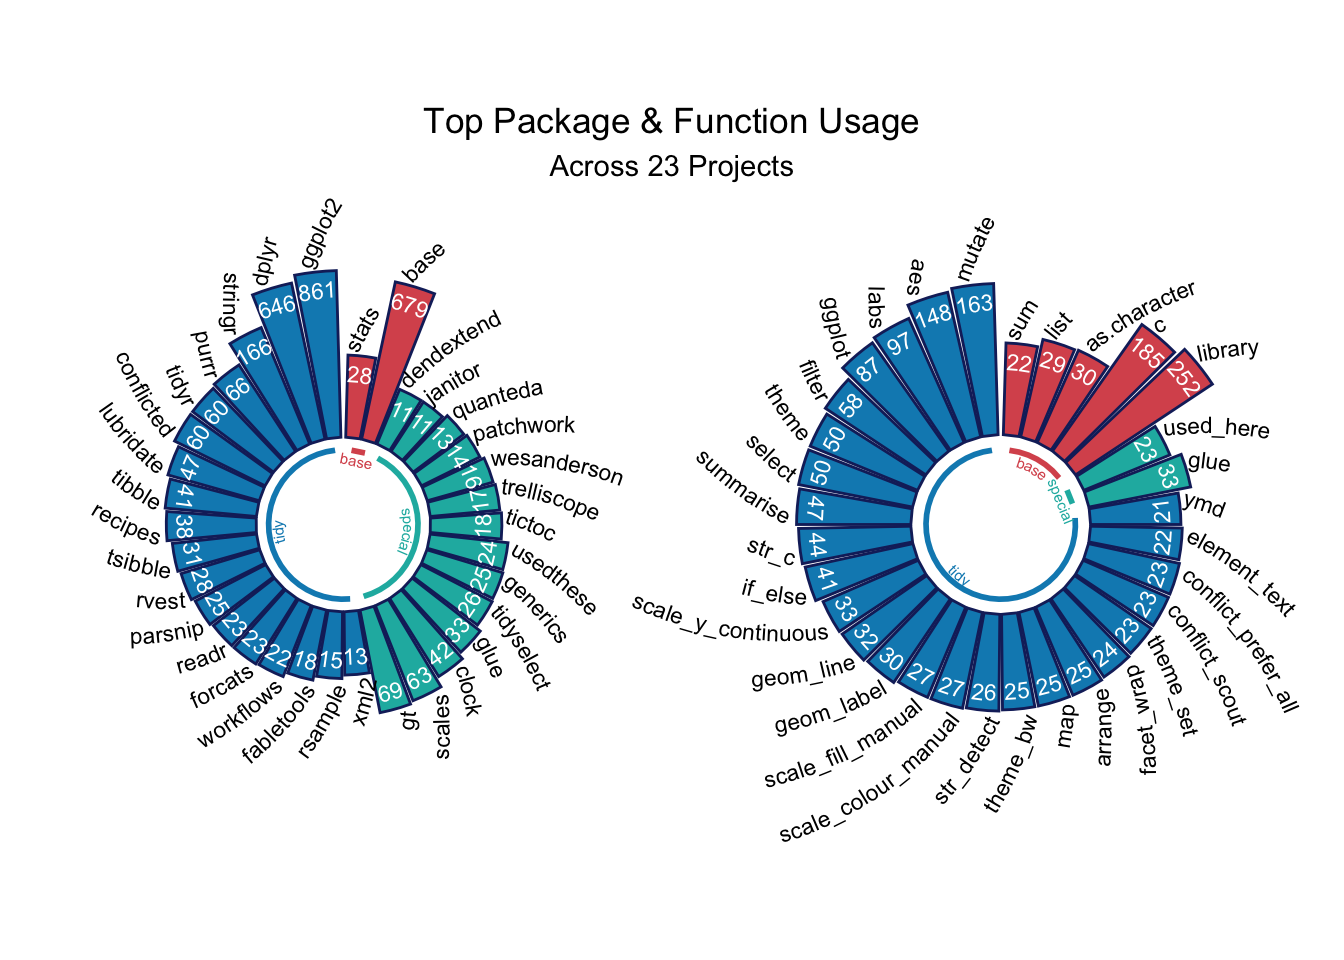
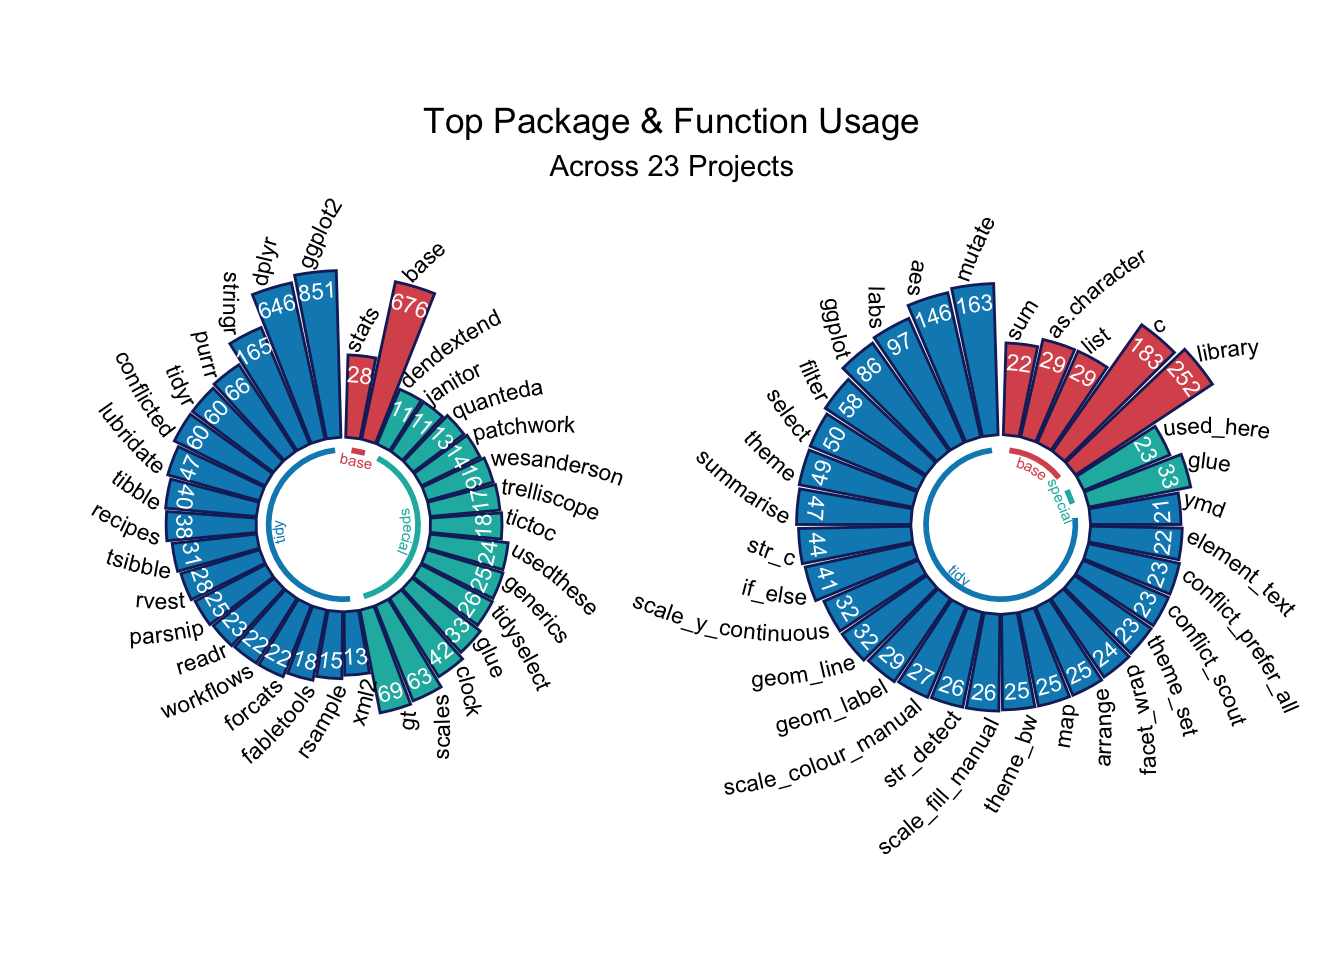
Use display_palette() in thicken

diff --git a/_site/project/thicken/index.html b/_site/project/thicken/index.html
@@ -246,7 +246,7 @@ div.csl-indent {
     <div>
     <div class="quarto-title-meta-heading">Modified</div>
     <div class="quarto-title-meta-contents">
-      <p class="date-modified">October 25, 2023</p>
+      <p class="date-modified">June 22, 2024</p>
     </div>
   </div>
     
@@ -266,9 +266,9 @@ div.csl-indent {
 <span><span class="kw"><a href="https://rdrr.io/r/base/library.html">library</a></span><span class="op">(</span><span class="va"><a href="https://rvest.tidyverse.org/">rvest</a></span><span class="op">)</span></span>
 <span><span class="kw"><a href="https://rdrr.io/r/base/library.html">library</a></span><span class="op">(</span><span class="va"><a href="https://scales.r-lib.org">scales</a></span><span class="op">)</span></span>
 <span><span class="kw"><a href="https://rdrr.io/r/base/library.html">library</a></span><span class="op">(</span><span class="va"><a href="https://github.com/ironholds/pageviews">pageviews</a></span><span class="op">)</span></span>
-<span><span class="kw"><a href="https://rdrr.io/r/base/library.html">library</a></span><span class="op">(</span><span class="va"><a href="https://lubridate.tidyverse.org">lubridate</a></span><span class="op">)</span></span>
 <span><span class="kw"><a href="https://rdrr.io/r/base/library.html">library</a></span><span class="op">(</span><span class="va"><a href="https://rstudio.github.io/bslib/">bslib</a></span><span class="op">)</span></span>
-<span><span class="kw"><a href="https://rdrr.io/r/base/library.html">library</a></span><span class="op">(</span><span class="va"><a href="https://github.com/karthik/wesanderson">wesanderson</a></span><span class="op">)</span></span>
+<span><span class="kw"><a href="https://rdrr.io/r/base/library.html">library</a></span><span class="op">(</span><span class="va"><a href="https://github.com/EmilHvitfeldt/paletteer">paletteer</a></span><span class="op">)</span></span>
+<span><span class="kw"><a href="https://rdrr.io/r/base/library.html">library</a></span><span class="op">(</span><span class="va"><a href="https://github.com/cgoo4/ggfoundry">ggfoundry</a></span><span class="op">)</span></span>
 <span><span class="kw"><a href="https://rdrr.io/r/base/library.html">library</a></span><span class="op">(</span><span class="va"><a href="https://cgoo4.github.io/usedthese/">usedthese</a></span><span class="op">)</span></span>
 <span></span>
 <span><span class="fu"><a href="https://conflicted.r-lib.org/reference/conflict_scout.html">conflict_scout</a></span><span class="op">(</span><span class="op">)</span></span></code><button title="Copy to Clipboard" class="code-copy-button"><i class="bi"></i></button></pre></div>
@@ -276,7 +276,12 @@ div.csl-indent {
 <div class="cell">
 <div class="sourceCode" id="cb2"><pre class="downlit sourceCode r code-with-copy"><code class="sourceCode R"><span><span class="fu"><a href="https://ggplot2.tidyverse.org/reference/theme_get.html">theme_set</a></span><span class="op">(</span><span class="fu"><a href="https://ggplot2.tidyverse.org/reference/ggtheme.html">theme_bw</a></span><span class="op">(</span><span class="op">)</span><span class="op">)</span></span>
 <span></span>
-<span><span class="op">(</span><span class="va">cols</span> <span class="op">&lt;-</span> <span class="fu"><a href="https://rdrr.io/pkg/wesanderson/man/wes_palette.html">wes_palette</a></span><span class="op">(</span><span class="fl">8</span>, name <span class="op">=</span> <span class="st">"IsleofDogs1"</span>, type <span class="op">=</span> <span class="st">"continuous"</span><span class="op">)</span><span class="op">)</span></span></code><button title="Copy to Clipboard" class="code-copy-button"><i class="bi"></i></button></pre></div>
+<span><span class="va">n</span> <span class="op">&lt;-</span> <span class="fl">6</span></span>
+<span><span class="va">pal_name</span> <span class="op">&lt;-</span> <span class="st">"wesanderson::IsleofDogs1"</span></span>
+<span></span>
+<span><span class="va">pal</span> <span class="op">&lt;-</span> <span class="fu"><a href="https://rdrr.io/pkg/paletteer/man/paletteer_d.html">paletteer_d</a></span><span class="op">(</span><span class="va">pal_name</span>, n <span class="op">=</span> <span class="va">n</span><span class="op">)</span></span>
+<span></span>
+<span><span class="fu"><a href="https://cgoo4.github.io/ggfoundry/reference/display_palette.html">display_palette</a></span><span class="op">(</span>fill <span class="op">=</span> <span class="va">pal</span>, n <span class="op">=</span> <span class="va">n</span>, pal_name <span class="op">=</span> <span class="va">pal_name</span><span class="op">)</span></span></code><button title="Copy to Clipboard" class="code-copy-button"><i class="bi"></i></button></pre></div>
 <div class="cell-output-display">
 <div>
 <figure class="figure"><p><img src="index_files/figure-html/theme-1.png" class="img-fluid figure-img" style="width:100.0%"></p>
@@ -299,7 +304,7 @@ div.csl-indent {
 <p>The pageviews <span class="citation" data-cites="pageviews">(<a href="#ref-pageviews" role="doc-biblioref">Keyes and Lewis 2020</a>)</span> package provides an API into Wikipedia. I’ll create a function wrapped around <code>article_pageviews</code> so I can later iterate through a subset of the list established in the prior code chunk.</p>
 <div class="cell">
 <div class="sourceCode" id="cb4"><pre class="downlit sourceCode r code-with-copy"><code class="sourceCode R"><span><span class="va">pv</span> <span class="op">&lt;-</span> \<span class="op">(</span><span class="va">article</span><span class="op">)</span> <span class="op">{</span></span>
-<span>  <span class="fu">article_pageviews</span><span class="op">(</span></span>
+<span>  <span class="fu"><a href="https://rdrr.io/pkg/pageviews/man/article_pageviews.html">article_pageviews</a></span><span class="op">(</span></span>
 <span>    project <span class="op">=</span> <span class="st">"en.wikipedia"</span>,</span>
 <span>    <span class="va">article</span>,</span>
 <span>    user_type <span class="op">=</span> <span class="st">"user"</span>,</span>
@@ -309,9 +314,9 @@ div.csl-indent {
 <span><span class="op">}</span></span></code><button title="Copy to Clipboard" class="code-copy-button"><i class="bi"></i></button></pre></div>
 </div>
 <p>I want an input selector so that a user can choose plot types for comparison. I also want to provide user control of the y-axis scale. A combination of <em>fixed</em> and <em>log10</em> is better for comparing plots. <em>Free</em> scaling reveals more detail in the individual trends.</p>
-<p>Although <a href="https://rstudio.github.io/shinyuieditor/">shinyuieditor</a> <span class="citation" data-cites="shinyuieditor">(<a href="#ref-shinyuieditor" role="doc-biblioref">Strayer 2022</a>)</span>&nbsp;is currently in Alpha at the time of this update, using <code>launch_editor("/content/project/thicken/")</code> helped me modify the basic grid layout of the UI for this pre-existing <code>app.R</code>.</p>
+<p>Although <a href="https://rstudio.github.io/shinyuieditor/">shinyuieditor</a> <span class="citation" data-cites="shinyuieditor">(<a href="#ref-shinyuieditor" role="doc-biblioref">Strayer 2022</a>)</span> is currently in Alpha at the time of this update, using <code>launch_editor("/content/project/thicken/")</code> helped me modify the basic grid layout of the UI for this pre-existing <code>app.R</code>.</p>
 <div class="cell">
-<div class="sourceCode" id="cb5"><pre class="downlit sourceCode r code-with-copy"><code class="sourceCode R"><span><span class="va">ui</span> <span class="op">&lt;-</span> <span class="fu">grid_page</span><span class="op">(</span></span>
+<div class="sourceCode" id="cb5"><pre class="downlit sourceCode r code-with-copy"><code class="sourceCode R"><span><span class="va">ui</span> <span class="op">&lt;-</span> <span class="fu"><a href="https://rdrr.io/pkg/gridlayout/man/grid_page.html">grid_page</a></span><span class="op">(</span></span>
 <span>  theme <span class="op">=</span> <span class="fu"><a href="https://rdrr.io/pkg/bslib/man/bs_theme.html">bs_theme</a></span><span class="op">(</span>version <span class="op">=</span> <span class="fl">5</span>, bootswatch <span class="op">=</span> <span class="st">"simplex"</span><span class="op">)</span>,</span>
 <span>  layout <span class="op">=</span> <span class="fu"><a href="https://rdrr.io/r/base/c.html">c</a></span><span class="op">(</span></span>
 <span>    <span class="st">"header  header"</span>,</span>
@@ -326,7 +331,7 @@ div.csl-indent {
 <span>    <span class="st">"1fr"</span></span>
 <span>  <span class="op">)</span>,</span>
 <span>  gap_size <span class="op">=</span> <span class="st">"1rem"</span>,</span>
-<span>  <span class="fu">grid_card</span><span class="op">(</span></span>
+<span>  <span class="fu"><a href="https://rdrr.io/pkg/gridlayout/man/grid_card.html">grid_card</a></span><span class="op">(</span></span>
 <span>    area <span class="op">=</span> <span class="st">"sidebar"</span>,</span>
 <span>    item_alignment <span class="op">=</span> <span class="st">"top"</span>,</span>
 <span>    title <span class="op">=</span> <span class="st">"Options"</span>,</span>
@@ -346,7 +351,7 @@ div.csl-indent {
 <span>        <span class="st">"Histogram"</span>,</span>
 <span>        <span class="st">"Pie chart"</span></span>
 <span>      <span class="op">)</span>,</span>
-<span>      options <span class="op">=</span> <span class="fu"><a href="https://rdrr.io/r/base/list.html">list</a></span><span class="op">(</span>maxItems <span class="op">=</span> <span class="fl">8</span><span class="op">)</span>,</span>
+<span>      options <span class="op">=</span> <span class="fu"><a href="https://rdrr.io/r/base/list.html">list</a></span><span class="op">(</span>maxItems <span class="op">=</span> <span class="fl">6</span><span class="op">)</span>,</span>
 <span>      multiple <span class="op">=</span> <span class="cn">TRUE</span></span>
 <span>    <span class="op">)</span>,</span>
 <span>    <span class="fu"><a href="https://rdrr.io/pkg/shiny/man/selectInput.html">selectInput</a></span><span class="op">(</span></span>
@@ -362,7 +367,7 @@ div.csl-indent {
 <span>      selected <span class="op">=</span> <span class="st">"log10"</span></span>
 <span>    <span class="op">)</span></span>
 <span>  <span class="op">)</span>,</span>
-<span>  <span class="fu">grid_card_text</span><span class="op">(</span></span>
+<span>  <span class="fu"><a href="https://rdrr.io/pkg/gridlayout/man/grid_card_text.html">grid_card_text</a></span><span class="op">(</span></span>
 <span>    area <span class="op">=</span> <span class="st">"header"</span>,</span>
 <span>    content <span class="op">=</span> <span class="st">"   Plot Plotter   "</span>,</span>
 <span>    alignment <span class="op">=</span> <span class="st">"center"</span>,</span>
@@ -370,7 +375,7 @@ div.csl-indent {
 <span>    icon <span class="op">=</span> <span class="st">"logo1.png"</span>,</span>
 <span>    img_height <span class="op">=</span> <span class="fl">30</span></span>
 <span>  <span class="op">)</span>,</span>
-<span>  <span class="fu">grid_card_plot</span><span class="op">(</span>area <span class="op">=</span> <span class="st">"line"</span><span class="op">)</span></span>
+<span>  <span class="fu"><a href="https://rdrr.io/pkg/gridlayout/man/grid_card_plot.html">grid_card_plot</a></span><span class="op">(</span>area <span class="op">=</span> <span class="st">"line"</span><span class="op">)</span></span>
 <span><span class="op">)</span></span></code><button title="Copy to Clipboard" class="code-copy-button"><i class="bi"></i></button></pre></div>
 </div>
 <p>The server component outputs a faceted ggplot.</p>
@@ -396,8 +401,8 @@ div.csl-indent {
 <span>      <span class="op">)</span></span>
 <span>    <span class="op">)</span> <span class="op">+</span></span>
 <span>      <span class="fu"><a href="https://ggplot2.tidyverse.org/reference/geom_path.html">geom_line</a></span><span class="op">(</span><span class="op">)</span> <span class="op">+</span></span>
-<span>      <span class="fu"><a href="https://ggplot2.tidyverse.org/reference/scale_manual.html">scale_colour_manual</a></span><span class="op">(</span>values <span class="op">=</span> <span class="va">cols</span><span class="op">)</span> <span class="op">+</span></span>
-<span>      <span class="fu"><a href="https://ggplot2.tidyverse.org/reference/geom_smooth.html">geom_smooth</a></span><span class="op">(</span>colour <span class="op">=</span> <span class="va">cols</span><span class="op">[</span><span class="fl">7</span><span class="op">]</span><span class="op">)</span> <span class="op">+</span></span>
+<span>      <span class="fu"><a href="https://ggplot2.tidyverse.org/reference/scale_manual.html">scale_colour_manual</a></span><span class="op">(</span>values <span class="op">=</span> <span class="va">pal</span><span class="op">)</span> <span class="op">+</span></span>
+<span>      <span class="fu"><a href="https://ggplot2.tidyverse.org/reference/geom_smooth.html">geom_smooth</a></span><span class="op">(</span>colour <span class="op">=</span> <span class="st">"lightgrey"</span><span class="op">)</span> <span class="op">+</span></span>
 <span>      <span class="fu"><a href="https://ggplot2.tidyverse.org/reference/facet_wrap.html">facet_wrap</a></span><span class="op">(</span><span class="op">~</span><span class="va">article</span>, nrow <span class="op">=</span> <span class="fl">1</span>, scales <span class="op">=</span> <span class="va">input</span><span class="op">$</span><span class="va">scales</span><span class="op">)</span> <span class="op">+</span></span>
 <span>      <span class="fu"><a href="https://ggplot2.tidyverse.org/reference/theme.html">theme</a></span><span class="op">(</span></span>
 <span>        legend.position <span class="op">=</span> <span class="st">"none"</span>,</span>
@@ -455,20 +460,28 @@ div.csl-indent {
 <td style="text-align: left;">filter[1], mutate[1]</td>
 </tr>
 <tr class="odd">
+<td style="text-align: left;">ggfoundry</td>
+<td style="text-align: left;">display_palette[1]</td>
+</tr>
+<tr class="even">
 <td style="text-align: left;">ggplot2</td>
 <td style="text-align: left;">aes[1], element_text[1], facet_wrap[1], geom_line[1], geom_smooth[1], ggplot[1], labs[1], margin[1], scale_colour_manual[1], scale_y_log10[1], theme[1], theme_bw[1], theme_set[1]</td>
 </tr>
-<tr class="even">
+<tr class="odd">
 <td style="text-align: left;">gridlayout</td>
 <td style="text-align: left;">grid_card[1], grid_card_plot[1], grid_card_text[1], grid_page[1]</td>
 </tr>
-<tr class="odd">
+<tr class="even">
 <td style="text-align: left;">lubridate</td>
 <td style="text-align: left;">today[1], ymd[1]</td>
 </tr>
-<tr class="even">
+<tr class="odd">
 <td style="text-align: left;">pageviews</td>
 <td style="text-align: left;">article_pageviews[1]</td>
+</tr>
+<tr class="even">
+<td style="text-align: left;">paletteer</td>
+<td style="text-align: left;">paletteer_d[1]</td>
 </tr>
 <tr class="odd">
 <td style="text-align: left;">purrr</td>
@@ -499,10 +512,6 @@ div.csl-indent {
 <td style="text-align: left;">used_here[1]</td>
 </tr>
 <tr class="even">
-<td style="text-align: left;">wesanderson</td>
-<td style="text-align: left;">wes_palette[1]</td>
-</tr>
-<tr class="odd">
 <td style="text-align: left;">xml2</td>
 <td style="text-align: left;">read_html[1]</td>
 </tr>

diff --git a/_site/project/index.html b/_site/project/index.html
@@ -729,7 +729,7 @@ Mar 1, 2018
 </div>
 </a>
 </div>
-<div class="g-col-1" data-index="16" data-categories="R,apps,web scraping" data-listing-date-sort="1517961600000" data-listing-file-modified-sort="1698239349303" data-listing-date-modified-sort="1698239349000" data-listing-reading-time-sort="7" data-listing-word-count-sort="1230">
+<div class="g-col-1" data-index="16" data-categories="R,apps,web scraping" data-listing-date-sort="1517961600000" data-listing-file-modified-sort="1719074177814" data-listing-date-modified-sort="1719074177000" data-listing-reading-time-sort="7" data-listing-word-count-sort="1240">
 <a href="../project/thicken/index.html" class="quarto-grid-link">
 <div class="quarto-grid-item card h-100 card-left">
 <p class="card-img-top"><img src="thicken/feature.gif" alt="The keys of a typewriter with "R" highlighted and the word "plot" being typed" style="height: 150px;"  class="thumbnail-image card-img"/></p>
@@ -751,7 +751,7 @@ Feb 7, 2018
 </div>
 <div class="card-footer">
 <div class="card-file-modified listing-file-modified">
-<p>Oct 25, 2023</p>
+<p>Jun 22, 2024</p>
 </div>
 </div>
 </div>
